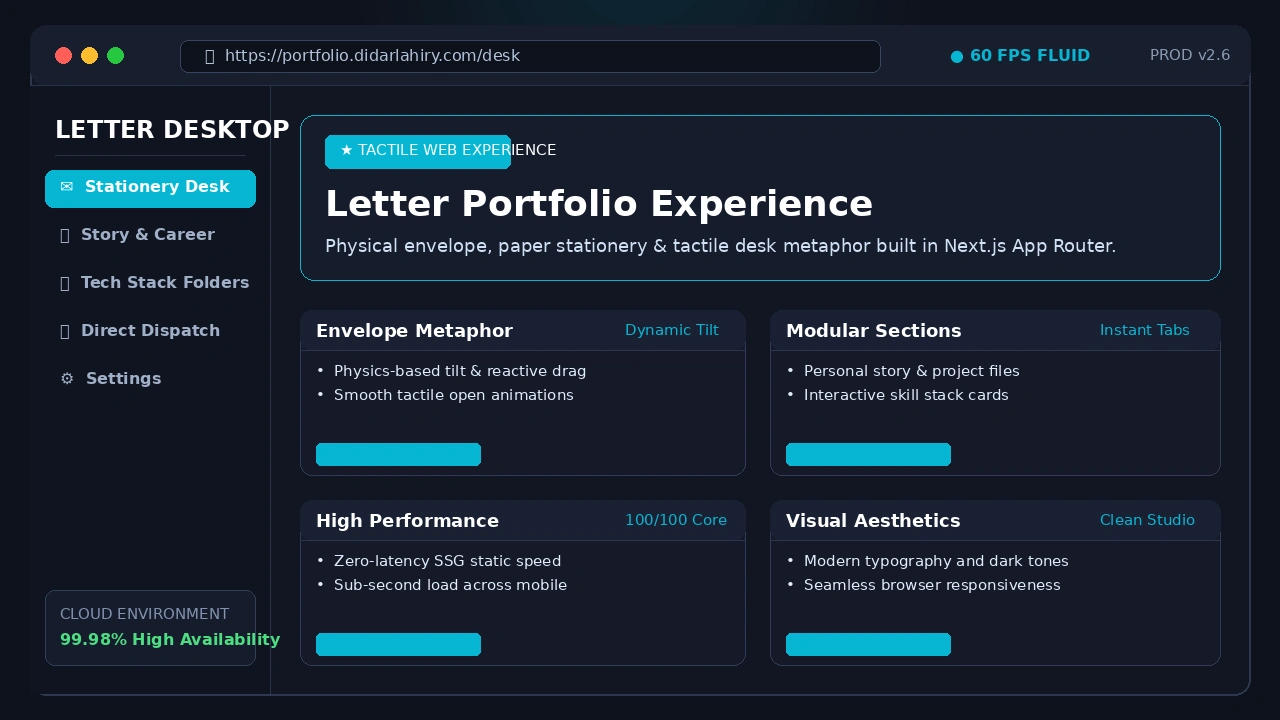
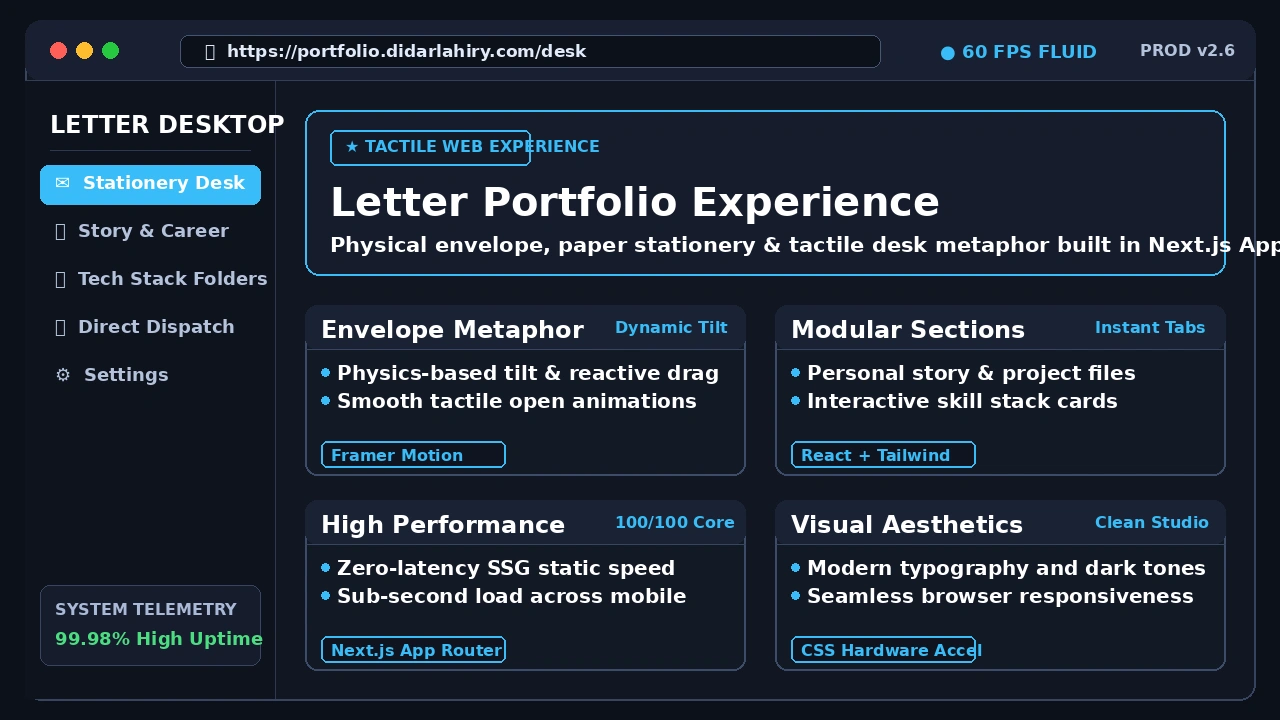
Fix '0 all' tab to 'All Projects'; make all poster card text 100% sharp white on dark background with high-contrast pills

diff --git a/index.html b/index.html
@@ -122,50 +122,49 @@
 /* Enhanced Projects Monitor Typography & Colors */
 .dbar {
   display: flex !important;
-  justify-content: space-between !important;
+  justify-content: flex-start !important;
   align-items: center !important;
   padding: 6px 14px !important;
-  min-height: 38px !important;
-  gap: 12px !important;
+  min-height: 40px !important;
+  background: #0e121d !important;
+  border-bottom: 1.5px solid rgba(255, 255, 255, 0.12) !important;
+  overflow: hidden !important;
 }
 .dbar .ws {
   display: flex !important;
   align-items: center !important;
-  gap: 6px !important;
-  flex-shrink: 0 !important;
+  gap: 8px !important;
+  flex-wrap: nowrap !important;
+  overflow-x: auto !important;
+  scrollbar-width: none !important;
+}
+.dbar .ws::-webkit-scrollbar {
+  display: none !important;
 }
 .dbar .ws button {
   font-family: 'Space Grotesk', -apple-system, sans-serif !important;
-  font-size: 13px !important;
-  font-weight: 600 !important;
+  font-size: 13.5px !important;
+  font-weight: 700 !important;
   letter-spacing: 0.3px !important;
   color: #cbd5e1 !important;
-  padding: 4px 10px !important;
+  padding: 5px 12px !important;
   border-radius: 6px !important;
   transition: all 0.2s ease !important;
   white-space: nowrap !important;
+  flex-shrink: 0 !important;
 }
 .dbar .ws button[aria-pressed="true"] {
   color: #ffffff !important;
-  background: rgba(255, 158, 187, 0.25) !important;
-  border: 1px solid rgba(255, 158, 187, 0.6) !important;
-  box-shadow: 0 0 12px rgba(255, 158, 187, 0.35) !important;
+  background: rgba(255, 158, 187, 0.3) !important;
+  border: 1.5px solid rgba(255, 158, 187, 0.8) !important;
+  box-shadow: 0 0 14px rgba(255, 158, 187, 0.4) !important;
 }
 .dbar .ws button:hover {
   color: #ffffff !important;
-  background: rgba(255, 255, 255, 0.1) !important;
-}
-.dbar .clock {
-  font-family: 'Space Grotesk', monospace !important;
-  font-size: 13px !important;
-  font-weight: 600 !important;
-  color: #ffffff !important;
-  letter-spacing: 0.5px !important;
-  margin-left: auto !important;
-  margin-right: 18px !important;
-  white-space: nowrap !important;
+  background: rgba(255, 255, 255, 0.12) !important;
 }
 .dbar .tray {
+  margin-left: auto !important;
   display: flex !important;
   align-items: center !important;
   gap: 8px !important;
@@ -403,7 +402,7 @@
          projects tiled, a terminal beside them; choosing one opens it on its
          own workspace, the app with its recording on the left and its README
          in a terminal on the right. The bar's workspaces, a tile, or a
-         window's close and minimise choose (desk-room.ts, showProject). --><section class="surface desk" id="projects" aria-label="Projects" hidden><h2 class="kicker">Projects</h2><div class="dbar"><nav class="ws" aria-label="Projects"><button type="button" data-p="" aria-pressed="true">0 <b>all</b></button><button type="button" data-p="edi" aria-pressed="false">1 <b>kishan</b></button><button type="button" data-p="resumewesume" aria-pressed="false">2 <b>letter-port</b></button><button type="button" data-p="bandsy" aria-pressed="false">3 <b>sales-bot</b></button><button type="button" data-p="mentora" aria-pressed="false">4 <b>fb-auto</b></button></nav><span class="tray" aria-hidden="true"><svg viewBox="0 0 16 16"><path d="M1.5 6a9 9 0 0 1 13 0M4 8.6a5.4 5.4 0 0 1 8 0M6.4 11.1a2 2 0 0 1 3.2 0"></path></svg><svg viewBox="0 0 16 16"><path d="M2 6h3l4-3v10l-4-3H2zM11.5 5.5a3.5 3.5 0 0 1 0 5"></path></svg><span>BST</span></span></div><div class="dview" data-scroll><div class="tiles">
+         window's close and minimise choose (desk-room.ts, showProject). --><section class="surface desk" id="projects" aria-label="Projects" hidden><h2 class="kicker">Projects</h2><div class="dbar"><nav class="ws" aria-label="Projects"><button type="button" data-p="" aria-pressed="true"><b>All Projects</b></button><button type="button" data-p="edi" aria-pressed="false">1 <b>Kishan</b></button><button type="button" data-p="resumewesume" aria-pressed="false">2 <b>Letter Portfolio</b></button><button type="button" data-p="bandsy" aria-pressed="false">3 <b>AI Sales Agent</b></button><button type="button" data-p="mentora" aria-pressed="false">4 <b>FB Automation</b></button></nav><span class="tray" aria-hidden="true"><svg viewBox="0 0 16 16"><path d="M1.5 6a9 9 0 0 1 13 0M4 8.6a5.4 5.4 0 0 1 8 0M6.4 11.1a2 2 0 0 1 3.2 0"></path></svg><svg viewBox="0 0 16 16"><path d="M2 6h3l4-3v10l-4-3H2zM11.5 5.5a3.5 3.5 0 0 1 0 5"></path></svg><span>BST</span></span></div><div class="dview" data-scroll><div class="tiles">
   <button type="button" class="tile" data-p="edi" style="grid-area: edi">
     <span class="t"><b style="color: #4ade80;">1. Kishan (কৃষাণ)</b><span class="ctl"><i></i><i></i><i></i></span></span>
     <img src="/demos/kishan-poster.webp" alt="Kishan AI Platform">
